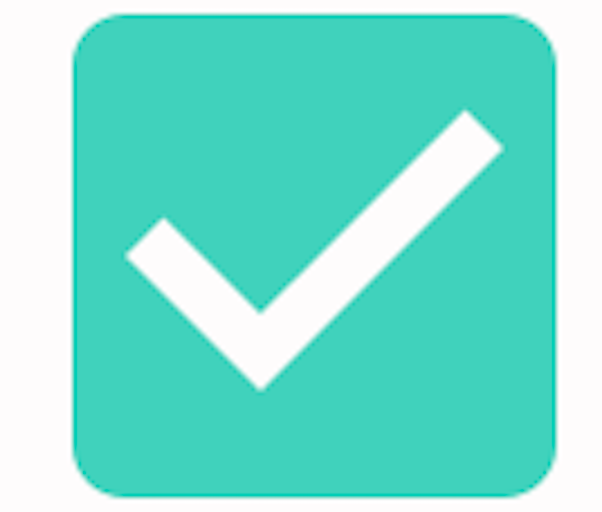
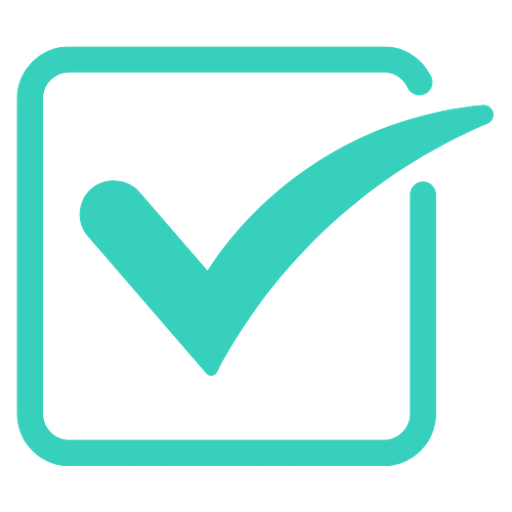
Fix splash screen/add new image

diff --git a/src/modules/SignUp/index.js b/src/modules/SignUp/index.js
@@ -1,11 +1,11 @@
 import React, { useState, useContext } from 'react';
-import { Link, Redirect, useHistory } from 'react-router-dom';
+import { Link, useHistory } from 'react-router-dom';
 import AppContext from '../../common/context';
 import userAPI from '../../api/user';
 import AccessError from '../../ui/AccessError';
 import User from '../../utils/userClass';
 import '../Login/Login.css';
-import logo from '../../ui/images/icons-512.png';
+import logo from '../../ui/images/checkbox.png';
 
 const SignUp = ({ setToken }) => {
 	const [state, dispatch] = useContext(AppContext);

diff --git a/src/ui/modal/Confirm.js b/src/ui/modal/Confirm.js
@@ -6,8 +6,6 @@ import DialogContent from '@material-ui/core/DialogContent';
 import DialogContentText from '@material-ui/core/DialogContentText';
 import Button from '@material-ui/core/Button';
 import { makeStyles } from '@material-ui/core';
-import Fab from '@material-ui/core/Fab';
-import { ClassRounded } from '@material-ui/icons';
 
 const Transition = React.forwardRef(function Transition(props, ref) {
 	return <Slide direction='up' ref={ref} {...props} />;

diff --git a/src/ui/modal/ModalWrap.js b/src/ui/modal/ModalWrap.js
@@ -2,7 +2,6 @@ import React, { useState } from 'react';
 import Dialog from '@material-ui/core/Dialog';
 import Slide from '@material-ui/core/Slide';
 import { makeStyles } from '@material-ui/core';
-import Fab from '@material-ui/core/Fab';
 
 const Transition = React.forwardRef(function Transition(props, ref) {
 	return <Slide direction='up' ref={ref} {...props} />;

diff --git a/src/modules/Login/index.js b/src/modules/Login/index.js
@@ -5,7 +5,7 @@ import AppContext from '../../common/context';
 import AccessError from '../../ui/AccessError';
 import './Login.css';
 import User from '../../utils/userClass';
-import logo from '../../ui/images/icons-512.png'
+import logo from '../../ui/images/checkbox.png'
 
 const Login = ({ setToken }) => {
 	const [state, dispatch] = useContext(AppContext);

diff --git a/src/index.js b/src/index.js
@@ -6,7 +6,6 @@ import * as serviceWorker from './serviceWorkerRegistration';
 // import reportWebVitals from './reportWebVitals';
 import { BrowserRouter } from 'react-router-dom';
 
-console.log('hello')
 ReactDOM.render(
 	<BrowserRouter basename='/'>
 		<App />
